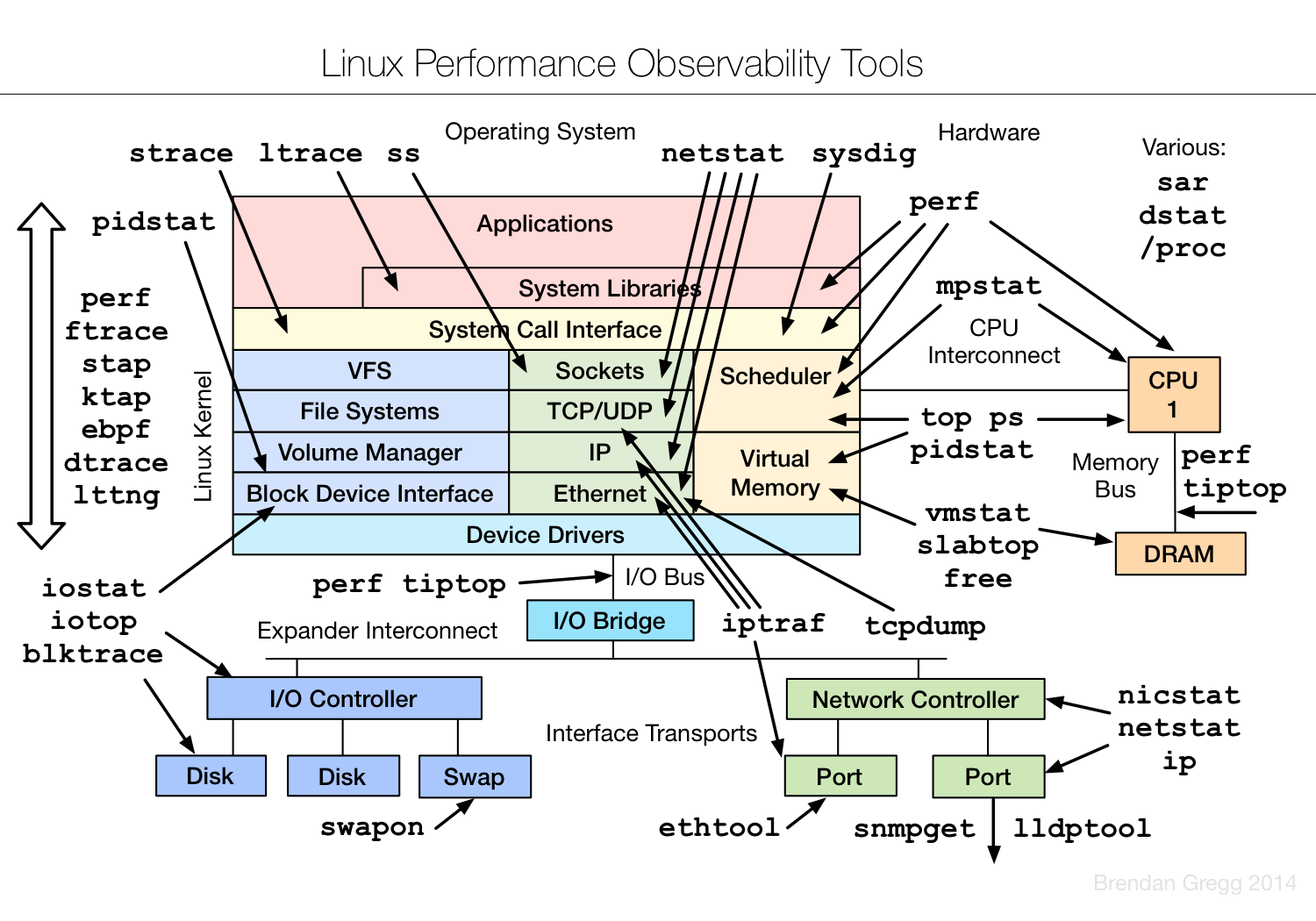
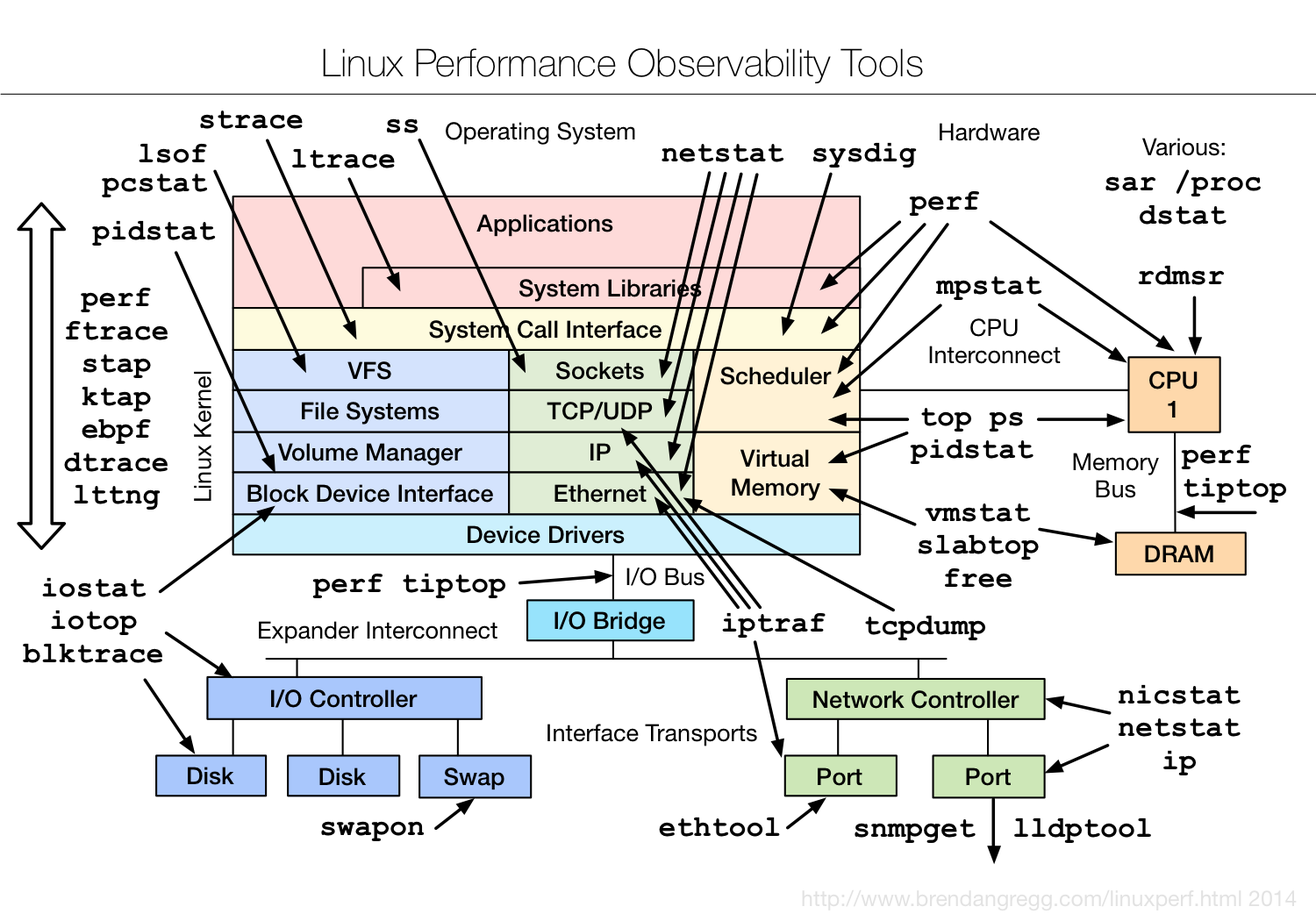
new file:   _posts/brendangregg/2014-11-22-linux-perf-tools-2014.html-100c15b15.html new file:   _posts/chenlinux/2014-11-20-phantomjs-snapshot-63b00217f.html new file:   _posts/chenlinux/2014-11-23-kibana-panel-only-dashboard-3474bf0cc.html new file:   _posts/jobbole/2014-11-20-79757-c5acf18ef.html

diff --git a/_posts/chenlinux/2014-11-23-kibana-panel-only-dashboard-3474bf0cc.html b/_posts/chenlinux/2014-11-23-kibana-panel-only-dashboard-3474bf0cc.html
@@ -1,0 +1,84 @@
+---
+layout: post
+title: '利用动态仪表板实现kibana单图表导出功能'
+time: 2014-11-23 00:00:00 +0800
+site_name: chenlinux.com
+source_url: http://chenlinux.com/2014/11/23/kibana-panel-only-dashboard
+images:
+  3747fb3af94787b878445fd191c7a181: http://photo.weibo.com/1035836154/wbphotos/large/mid/3780159570052868/pid/3dbd9afagw1eml6f9xqltj20lc0fuwfu
+---
+{% raw %}
+
+  
+  <div style="background-color: #FFF;">
+    <p>昨天和朋友聊天，说监控报表的话题，他们认为 kibana 的仪表板形式，还是偏重技术人员做监控的 screen 思路，对 erp 之类的报表不是很友好。要想跟其他系统结合，或者说嵌入到其他系统中，就必须得有单个图表的导出，或者 URL 引用方式。当时我直觉上的反应，就是这个没问题，可以通过 javascript 动态仪表板这个高级功能完成。回来试了一下，比我想的稍微复杂一点点，还是可以很轻松完成的。</p>
+<p>读过<a href="http://kibana.logstash.es/content/dashboard-schema.html">仪表板纲要</a>一文，或者自己看过源代码中 <code>src/app/dashboards/logstash.json</code> 文件的人，应该都知道 kibana 中有些在页面配置界面里看不到的隐藏配置选项。其中很符合我们这次需求的，就有 <code>editable</code>, <code>collapsable</code> 等。所以，首先第一步，我们可以在自己的 <code>panel.js</code>(直接从 logstash.js 复制过来) 中，把这些关掉：</p>
+<div class="highlight"><pre><code class="language-javascript" data-lang="javascript"><span class="nx">dashboard</span><span class="p">.</span><span class="nx">rows</span> <span class="o">=</span> <span class="p">[</span>
+  <span class="p">{</span>
+    <span class="nx">editable</span><span class="o">:</span> <span class="kc">false</span><span class="p">,</span>         <span class="c1">//不显示每行的编辑按钮</span>
+    <span class="nx">collapsable</span><span class="o">:</span> <span class="kc">false</span><span class="p">,</span>      <span class="c1">//不显示每行的折叠按钮</span>
+    <span class="nx">title</span><span class="o">:</span> <span class="s2">"Events"</span><span class="p">,</span>
+    <span class="nx">height</span><span class="o">:</span> <span class="s2">"400px"</span><span class="p">,</span>
+    <span class="nx">panels</span> <span class="o">=</span> <span class="p">[{</span>
+      <span class="nx">editable</span><span class="o">:</span> <span class="kc">false</span><span class="p">,</span>       <span class="c1">//不显示面板的编辑按钮</span>
+      <span class="nx">title</span><span class="o">:</span> <span class="s1">'events over time'</span><span class="p">,</span>
+      <span class="nx">type</span><span class="o">:</span> <span class="s1">'histogram'</span><span class="p">,</span>
+      <span class="nx">time_field</span><span class="o">:</span> <span class="nx">ARGS</span><span class="p">.</span><span class="nx">timefield</span><span class="o">||</span><span class="s2">"@timestamp"</span><span class="p">,</span>
+      <span class="nx">auto_int</span><span class="o">:</span> <span class="kc">true</span><span class="p">,</span>
+      <span class="nx">span</span><span class="o">:</span> <span class="mi">12</span>
+    <span class="p">}]</span>
+  <span class="p">}</span>
+<span class="p">];</span>
+<span class="nx">dashboard</span><span class="p">.</span><span class="nx">editable</span> <span class="o">=</span> <span class="kc">false</span><span class="p">;</span>     <span class="c1">//不显示仪表板的编辑按钮</span>
+<span class="nx">dashboard</span><span class="p">.</span><span class="nx">panel_hints</span> <span class="o">=</span> <span class="kc">false</span><span class="p">;</span>  <span class="c1">//不显示面板的添加按钮</span></code></pre></div>
+<p>然后要解决面板上方的 query 框和 filtering 框。这个同样在纲要介绍里说了，这两个特殊的面板是放在垂幕(pulldows)里的。所以，直接关掉垂幕就好了：</p>
+<div class="highlight"><pre><code class="language-javascript" data-lang="javascript"><span class="nx">dashboard</span><span class="p">.</span><span class="nx">pulldowns</span> <span class="o">=</span> <span class="p">[];</span></code></pre></div>
+<p>然后再往上是顶部栏。顶部栏里有时间选择器，这个跟垂幕一样是可以关掉的：</p>
+<div class="highlight"><pre><code class="language-javascript" data-lang="javascript"><span class="nx">dashboard</span><span class="p">.</span><span class="nx">nav</span> <span class="o">=</span> <span class="p">[];</span></code></pre></div>
+<p>好了，javascript 里可以关掉的，都已经关了。</p>
+<p>但是运行起来，发现顶部栏里虽然是没有时间选择器和配置编辑按钮了，本身这个黑色条带和 logo 图什么的，却依然存在！这时候我想起来有时候 config.js 没写对，<code>/_nodes</code> 获取失败的时候，打开的页面就是背景色外加这个顶条 —— 也就是说，这部分代码是写在 <code>index.html</code> 里的，不受 <code>app/dashboards/panel.js</code> 控制。</p>
+<p>所以这里就得去修改一下 <code>index.html</code> 了。不过为了保持兼容性，我这里没有直接删除顶部栏的代码，而是用了 angularjs 中很常用的 <code>ng-show</code> 指令：</p>
+<div class="highlight"><pre><code class="language-html" data-lang="html"><span class="nt">&lt;div</span> <span class="na">ng-cloak</span> <span class="na">class=</span><span class="s">"navbar navbar-static-top"</span> <span class="na">ng-show=</span><span class="s">"dashboard.current.nav.length"</span><span class="nt">&gt;</span></code></pre></div>
+<p>因为之前关闭时间选择器的时候，已经把这个 nav 数组定义为空了，所以只要判断一下数组长度即可。</p>
+<p>效果如下：</p>
+<p><img src="/images/chenlinux.com/3747fb3af94787b878445fd191c7a181.jpg" alt="single panel"></p>
+<p>因为 <code>dashboard.services</code> 的定义没有做修改，所以这个其实照样支持你用鼠标拉动选择时间范围，支持你在 URL 后面加上 <code>?query=status:404&amp;from=1h</code> 这样的参数，效果都是对的。只不过不会再让你看到这些文字显示在页面上了。</p>
+<p>如果要求再高一点，其实完全可以在 <code>ARGS</code> 里处理更复杂的参数，比如直接 <code>?type=terms&amp;field=host&amp;value_field=requesttime</code> 就生成 <code>dashboard.rows[0].panels[0]</code> 里的对应参数，达到自动控制图表类型和效果的目的。</p>
+    <hr>
+    
+    <hr>
+  <!-- JiaThis Button BEGIN -->
+<div class="jiathis_style">
+<span class="jiathis_txt">分享到：</span>
+<a class="jiathis_button_tsina">新浪微博</a>
+<a class="jiathis_button_weixin">微信</a>
+<a class="jiathis_button_renren">人人网</a>
+<a class="jiathis_button_ydnote">有道云笔记</a>
+<a class="jiathis_button_gmail">Gmail邮箱</a>
+<a class="jiathis_button_twitter">Twitter</a>
+<a class="jiathis_button_googleplus">Google+</a>
+<a class="jiathis_button_hi">百度空间</a>
+<a class="jiathis_button_fb">Facebook</a>
+<a class="jiathis_button_douban">豆瓣</a>
+<a href="http://www.jiathis.com/share?uid=1589850" class="jiathis jiathis_txt jiathis_separator jtico jtico_jiathis" target="_blank">更多</a>
+<a class="jiathis_counter_style"></a>
+</div>
+<script type="text/javascript">
+var jiathis_config={
+	data_track_clickback:true,
+	summary:"",
+	ralateuid:{
+		"tsina":"1035836154"
+	},
+	shortUrl:false,
+	hideMore:false
+}
+</script>
+<script type="text/javascript" src="http://v3.jiathis.com/code/jia.js?uid=1589850" charset="utf-8"></script>
+<!-- JiaThis Button END -->
+<!-- UY BEGIN -->
+
+
+<!-- UY END -->
+  </div>
+{% endraw %}

diff --git a/_posts/jobbole/2014-11-20-79757-c5acf18ef.html b/_posts/jobbole/2014-11-20-79757-c5acf18ef.html
@@ -1,0 +1,113 @@
+---
+layout: post
+title: '计算机算法：数据压缩之前缀编码（5）'
+time: 2014-11-20 00:00:00 +0800
+site_name: jobbole.com
+source_url: http://blog.jobbole.com/79757/
+images:
+  9130b42244a4abbf7fda5aad945efbe9: http://ww1.sinaimg.cn/mw690/63918611gw1emh64rpahdj208b0cpq34.jpg
+  cedae08dc44c077d2df50b7782b0b954: http://ww1.sinaimg.cn/large/63918611gw1emh64sn0cqj20nf0flgr4.jpg
+---
+{% raw %}
+
+        <div style="margin-bottom: 10px;">
+            
+        </div>
+
+		
+<p><span style="font-family: 'Helvetica Neue', Helvetica, Arial, sans-serif; font-size: 28px; font-style: normal; font-weight: bold; line-height: 42px;">概述</span></p>
+<p>前缀编码，有时也被称为前向编码，是另一个通过移除冗余数据来降低数据量的算法。思想非常简单，但算法实现比较困难。要了解原因，首先我们来看一看它的原理。</p>
+<p>请看下面的字典。</p>
+<pre class="brush: actionscript3; gutter: true">use
+used
+useful
+usefully
+usefulness
+useless
+uselessly
+uselessness</pre>
+<p>为了不使用纯文本保存这些单词或者在网络上传输，我们可以用前缀编码进行压缩（编码）。</p>
+<p><img alt="" src="/images/jobbole.com/9130b42244a4abbf7fda5aad945efbe9.jpg"></p>
+<p>很明显，每一个单词都以表中的第一个单词“use”为前缀。所以我们很容易将它们压缩成下面的数组。</p>
+<pre class="brush: actionscript3; gutter: true">$data = array(
+0 =&gt; 'use',
+1 =&gt; '0d',
+2 =&gt; '0ful',
+3 =&gt; '0fully',
+4 =&gt; '0less',
+5 =&gt; '0lessly',
+6 =&gt; '0lessness',
+);</pre>
+<p>显然这并不是最佳的压缩结果，在不仅仅使用第一个词作为前缀的情况下，我们可以更进一步压缩。</p>
+<pre class="brush: actionscript3; gutter: true">$data = array(
+0 =&gt; 'use',
+1 =&gt; '0d',
+2 =&gt; '0ful',
+3 =&gt; '2ly',
+4 =&gt; '0less',
+5 =&gt; '4ly',
+6 =&gt; '4ness',
+);</pre>
+<p>此时的压缩更好，好消息是解码是一个相对简单的过程。但棘手的部分在于压缩本身。问题是选择合适的前缀非常困难。第一个例程的前缀选择很简单，但事实上，大多时候数据很混乱。的确，对于随机产生的数据压缩过程将非常困难，算法过程不仅很慢，而且难以实现。</p>
+<p>好的方面是，如果我们事先知道数据的格式，该算法可以用于多种情况。那么，让我们看看下面三个例子，该算法可能会很方便。</p>
+<h1>应用</h1>
+<p>以下是三个前缀编码的例子。前面我说随机数据的压缩过程会很难，如果你事先知道输入数据的格式，这将会是一个很好的练习。</p>
+<h2>日期和时间前缀</h2>
+<p>我们通常会忽略年份的前两个数字，例如我们通常不会写1995或1996，而是使用更短的——‘95’和‘96’。这样年份就被编码成更短的字符串。</p>
+<pre class="brush: actionscript3; gutter: true">input: (1991, 1992, 1993, 1994, 1995, 1996)
+output: (91, 92, 93, 94, 95, 96)</pre>
+<p>问题在于输入流发生很小的变动，解码就会出错。如果我们加上21世纪的年份，我们将失去数据的唯一性。</p>
+<pre class="brush: actionscript3; gutter: true">input: (1998, 1992, 1999, 2011, 2012)
+output: (98, 92, 99, 11, 12)</pre>
+<p>此时，解码器肯会将最后两个数值解码成(1911, 1912)，因为“19”被认为是前缀。所以，我们事先必须知道前缀与每一个数值绝对平等。如果没有编码格式，必须不同。例如我们可以使用一些特殊标识和前缀一起编码。</p>
+<pre class="brush: actionscript3; gutter: true">input: (1998, 1992, 1932, 1924, 2001, 2012)
+output: (#19, 98, 92, 32, 24, #20, 01, 12)</pre>
+<p>一旦解码器读到#字符，它就知道下面的数为前缀。</p>
+<p>事实上，这种方法可用于日期和时间格式的编码。假设我们有一些日期时间值，而且我们知道所有数据都是在同一天。</p>
+<pre class="brush: actionscript3; gutter: true">2012-01-31 15:33:45
+2012-01-31 16:12:11
+2012-01-31 17:32:35
+2012-01-31 18:54:34</pre>
+<p>显然，我们可以忽略这些字符串的时间部分，仅发送（保存）时间。当然，我们必须确定所有的这些数值都是在同一天。如果不是，我们可以使用上例中的方法。</p>
+<h2>电话号码</h2>
+<p>电话号码是前缀编码的典型应用。不仅仅是国际代码，移动网络运营商的电话号码也使用前缀编码。如果我们要传输电话号码，假设是英国的，我们可以用一些更短的东西替换开头的“+44”。</p>
+<p>如果你要给移动设备编写电话簿，你可以通过前缀编码压缩数据，节省部分空间，这样用户将拥有更多空间，也可以在手机上存储更多电话号码。</p>
+<p>电话号码前缀也适用于数据库标准化。这样你可以将它们存储在单独的数据库表中，不用电话簿中唯一的号码。</p>
+<h2>地理坐标</h2>
+<p>对于我之前帖子中使用的例子，可以在一定范围内去掉通用前缀来发送地理坐标。的确，在必须传送大量坐标到地图应用时，你可以预期这些标记在一定范围内彼此间相当靠近。</p>
+<p style="text-align: center;"><img id="pic" alt="" src="/images/jobbole.com/cedae08dc44c077d2df50b7782b0b954.jpg"></p>
+<p style="text-align: center;"><em></em><em>在一定范围内，可以预期这些标记都有相同的前缀。</em></p>
+<p>那些点的坐标有共同的前缀，就像下面地铁站的例子一样。</p>
+<pre class="brush: actionscript3; gutter: true">LatLon(40.762959,-73.985989)
+LatLon(40.761886,-73.983629)
+LatLon(40.762861,-73.981612)
+LatLon(40.764616,-73.98056)</pre>
+<p>我们可以发现所有的地理坐标点有相同的前缀(40.76x, -73.98x)，所以我们只需要发送一次前缀。</p>
+<pre class="brush: actionscript3; gutter: true">Prefix: (40.76, -73.98)
+Data: 
+LatLon(2959,5989)
+LatLon(1886,3629)
+LatLon(2861,1612)
+LatLon(4616,056)</pre>
+<p>以上是前缀编码的三个例子，该算法在传输均匀数据是非常有用。</p>
+<h1><span style="font-family: 'Helvetica Neue', Helvetica, Arial, sans-serif; font-size: 28px; font-style: normal; font-weight: bold; line-height: 42px;">后缀编码</span></h1>
+<p>后缀编码和前缀编码几乎相同，区别在于编码重复后缀。如下例，后缀编码替换最后重复的后缀，这非常有用。</p>
+<pre class="brush: actionscript3; gutter: true">Johnson
+Clarkson
+Jackson</pre>
+<p>或者公司名称。</p>
+<pre class="brush: actionscript3; gutter: true">Apple Inc.
+Google Inc.
+Yahoo! Inc.</pre>
+<p>这里我们可以使用一些其他更短的东西来替换“Inc”。</p>
+
+
+<!-- div id="ad1">
+</div -->
+
+
+	
+
+
+	
+{% endraw %}

diff --git a/_posts/chenlinux/2014-11-20-phantomjs-snapshot-63b00217f.html b/_posts/chenlinux/2014-11-20-phantomjs-snapshot-63b00217f.html
@@ -1,0 +1,73 @@
+---
+layout: post
+title: '用 phantomjs 截图'
+time: 2014-11-20 00:00:00 +0800
+site_name: chenlinux.com
+source_url: http://chenlinux.com/2014/11/20/phantomjs-snapshot
+---
+{% raw %}
+
+  
+  <div style="background-color: #FFF;">
+    <p>昨儿给 kibana 加上了 table 面板数据导出成 CSV 的功能。朋友们就问了，那其他面板的图表怎么导出保存呢？其实直接截图就好了嘛……</p>
+<p>FireFox 有插件用来截全网页图。不过如果作为定期的工作，这么搞还是比较麻烦的，需要脚本化下来。这时候就可以用上 phantomjs 软件了。phantomjs 是一个基于 webkit 引擎做的 js 脚本库。可以通过 js 程序操作 webkit 浏览器引擎，实现各种浏览器功能。</p>
+<p>因为用了 webkit ，所以软件编译起来挺麻烦的，建议是直接从官方下载二进制包用得了。</p>
+<p>想要给 kibana 页面截图，几行代码就够了：</p>
+<div class="highlight"><pre><code class="language-javascript" data-lang="javascript"><span class="kd">var</span> <span class="nx">page</span> <span class="o">=</span> <span class="nx">require</span><span class="p">(</span><span class="s1">'webpage'</span><span class="p">).</span><span class="nx">create</span><span class="p">();</span>
+<span class="kd">var</span> <span class="nx">address</span> <span class="o">=</span> <span class="s1">'http://kibana.dip.sina.com.cn/#/dashboard/elasticsearch/h5_view'</span><span class="p">;</span>
+<span class="kd">var</span> <span class="nx">output</span> <span class="o">=</span> <span class="s1">'kibana.png'</span><span class="p">;</span>
+<span class="nx">page</span><span class="p">.</span><span class="nx">viewportSize</span> <span class="o">=</span> <span class="p">{</span> <span class="nx">width</span><span class="o">:</span> <span class="mi">1366</span><span class="p">,</span> <span class="nx">height</span><span class="o">:</span> <span class="mi">600</span> <span class="p">};</span>
+<span class="nx">page</span><span class="p">.</span><span class="nx">open</span><span class="p">(</span><span class="nx">address</span><span class="p">,</span> <span class="kd">function</span> <span class="p">(</span><span class="nx">status</span><span class="p">)</span> <span class="p">{</span>
+    <span class="k">if</span> <span class="p">(</span><span class="nx">status</span> <span class="o">!==</span> <span class="s1">'success'</span><span class="p">)</span> <span class="p">{</span>
+        <span class="nx">console</span><span class="p">.</span><span class="nx">log</span><span class="p">(</span><span class="s1">'Unable to load the address!'</span><span class="p">);</span>
+        <span class="nx">phantom</span><span class="p">.</span><span class="nx">exit</span><span class="p">();</span>
+    <span class="p">}</span> <span class="k">else</span> <span class="p">{</span>
+        <span class="nb">window</span><span class="p">.</span><span class="nx">setTimeout</span><span class="p">(</span><span class="kd">function</span> <span class="p">()</span> <span class="p">{</span>
+            <span class="nx">page</span><span class="p">.</span><span class="nx">render</span><span class="p">(</span><span class="nx">output</span><span class="p">);</span>
+            <span class="nx">phantom</span><span class="p">.</span><span class="nx">exit</span><span class="p">();</span>
+        <span class="p">},</span> <span class="mi">20000</span><span class="p">);</span>
+    <span class="p">}</span>
+<span class="p">});</span></code></pre></div>
+<p>这里两个要点：</p>
+<ol>
+  <li>要设置 <code>viewportSize</code> 里的宽度，否则效果会变成单个 panel 依次往下排列。</li>
+  <li>要设置 <code>setTimeout</code>，否则在获取完 index.html 后就直接返回了，只能看到一个大白板。用 phantomjs 截取 angularjs 这类单页 MVC 框架应用时一定要设置这个。</li>
+</ol>
+    <hr>
+    
+    <hr>
+  <!-- JiaThis Button BEGIN -->
+<div class="jiathis_style">
+<span class="jiathis_txt">分享到：</span>
+<a class="jiathis_button_tsina">新浪微博</a>
+<a class="jiathis_button_weixin">微信</a>
+<a class="jiathis_button_renren">人人网</a>
+<a class="jiathis_button_ydnote">有道云笔记</a>
+<a class="jiathis_button_gmail">Gmail邮箱</a>
+<a class="jiathis_button_twitter">Twitter</a>
+<a class="jiathis_button_googleplus">Google+</a>
+<a class="jiathis_button_hi">百度空间</a>
+<a class="jiathis_button_fb">Facebook</a>
+<a class="jiathis_button_douban">豆瓣</a>
+<a href="http://www.jiathis.com/share?uid=1589850" class="jiathis jiathis_txt jiathis_separator jtico jtico_jiathis" target="_blank">更多</a>
+<a class="jiathis_counter_style"></a>
+</div>
+<script type="text/javascript">
+var jiathis_config={
+	data_track_clickback:true,
+	summary:"",
+	ralateuid:{
+		"tsina":"1035836154"
+	},
+	shortUrl:false,
+	hideMore:false
+}
+</script>
+<script type="text/javascript" src="http://v3.jiathis.com/code/jia.js?uid=1589850" charset="utf-8"></script>
+<!-- JiaThis Button END -->
+<!-- UY BEGIN -->
+
+
+<!-- UY END -->
+  </div>
+{% endraw %}

diff --git a/_drafts/devtang/2014-11-24-ios-weekly-32-485619474.html b/_drafts/devtang/2014-11-24-ios-weekly-32-485619474.html
@@ -1,0 +1,55 @@
+---
+layout: post
+title: 'iOS移动开发周报-第32期'
+time: 2014-11-24 00:00:00 +0800
+site_name: devtang.com
+source_url: http://blog.devtang.com/blog/2014/11/24/ios-weekly-32/
+---
+{% raw %}
+<h3>版权说明</h3>
+
+<p>本文为InfoQ中文站特供稿件，首发地址为：<a href="http://www.infoq.com/cn/news/2014/11/1yuan-apple-app-store-pricing">文章链接</a>。如需转载，请与InfoQ中文站联系。</p>
+
+<h3>前言</h3>
+
+<p>欢迎国内的iOS同行或技术作者向我提交周报线索，线索可以是新闻、教程、开发工具或开源项目，将相关文章的简介和链接在微博上发布并 <a href="http://weibo.com/tangqiaoboy">@唐巧_boy</a> 即可。</p>
+
+<p>【摘要】：本期iOS移动开发周报带来如下内容：“1元”正式成苹果中国区应用商店新定价、Apple Watch人机界面指南、Apple WatchKit 初探等。</p>
+
+<h2>新闻</h2>
+
+<ol>
+<li><p><a href="http://tech.sina.com.cn/it/apple/2014-11-18/06419801088.shtml">《苹果公司发布iOS 8.1.1升级补丁》</a>：11月18日凌晨消息，苹果公司已对上个月针对iPhone、iPad和iPod Touch发布的iOS 8.1操作系统正式推出了iOS 8.1.1升级补丁。iOS 8.1.1将可改善基于iOS 8系统运行的、使用A5芯片的较老设备的表现，也就是指iPad 2和iPhone 4s。除了发布iOS 8.1.1以外，苹果公司还发布了OS X 10.10.1升级补丁以修复WiFi网络表现及其他问题。</p></li>
+<li><p><a href="http://tech.sina.com.cn/mobile/n/apple/2014-11-21/16439814574.shtml">《“1元”正式成苹果中国区应用商店新定价》</a>：11月19日，苹果中国区App Store应用商店出现1元应用，当时曾有消息称这是短期促销行为，不过目前苹果公司已经正式宣布，人民币1元及3元将是中国区应用商店的新定价，作为一个永久价格选项。</p></li>
+<li><p><a href="https://github.com/CocoaPods/CocoaPods/pull/2835">《CocoaPods将要支持Swift》</a>：从 CocoaPods 的一个pull request中，我们了解到著名的 iOS 依赖管理工具 CocoaPods 将要支持 Swift 语言。</p></li>
+<li><p><a href="http://it.sohu.com/20141121/n406233892.shtml">《AppleWatch需求被低估 苹果股价创历史新高》</a>：11月21日，据外国媒体报道，在经过新一轮的多名华尔街分析师上调公司目标股价之后，再加上摩根士丹利认为一些投资者低估了苹果智能手表Apple Watch的市场需求预期，苹果周四股价呈现出上涨局面。苹果股价在当周曾达到历史新高的117.28美元。</p></li>
+</ol>
+
+
+<h2>教程</h2>
+
+<ol>
+<li><p><a href="http://vdisk.weibo.com/s/yWUvUXSZiJFiv">《Apple Watch人机界面指南（中文版）》</a>：苹果于11月19号放出了Apple Watch的官方设计指南。这是由<a href="http://weibo.com/uiteam?from=feed&amp;loc=nickname">微博无线设计团队</a>翻译的中文版指南。</p></li>
+<li><p><a href="https://github.com/nixzhu/dev-blog/blob/master/2014-11-20-build-custom-control-in-swift.md">《使用 Swift 构建自定义（且“可设计”的）控件》</a>：大约两年前，我写了一篇关于在 iOS 上构件自定义控件的教程。那篇教程获得了社区的高度赞赏，所以我决定将其用 Swift 更新并加入 Designable/Inspectable 属性以支持直接在 Interface Builder 里调整控件的外观。</p></li>
+<li><p><a href="http://onevcat.com/2014/11/watch-kit/">《Apple WatchKit 初探》</a>： 11月19日，Apple 发布了第一版的 Watch Kit 的 API，对于开发者来说，这款新设备的一些更详细的信息也算是逐渐浮出水面。可以说第一版的 WatchKit 开放的功能总体还是令人满意的。Apple 在承诺逐渐开放的方向上继续前进。本文介绍了Watch app 架构和主要的类等相关知识。</p></li>
+<li><p><a href="http://nonomori.farbox.com/post/webkit-zhi-shu-ju-gong-xiang">《WatchKit 之 数据共享》</a>：本文介绍了如何使 Watch App 与 iOS App 之间进行数据共享。</p></li>
+<li><p><a href="http://nonomori.farbox.com/post/watchkit-zhi-dao-hang">《WatchKit 之 导航》</a>：在 Watch App 中，当涉及到多个界面跳转时，我们共有两种导航方式可使用：<code>Hierarchical</code> 与 <code>Page-based</code>。本文将对这两种导航方式以及 Modal 展现方式做简单的介绍。</p></li>
+</ol>
+
+
+<h2>工具</h2>
+
+<ol>
+<li>
+<a href="https://github.com/lucholaf/Auto-Importer-for-Xcode">Auto-Importer</a>：Auto-Importer是一个自动导入类对应的头文件的Xcode插件。</li>
+</ol>
+
+
+<h2>开源项目</h2>
+
+<ol>
+<li><p><a href="https://github.com/Carthage/Carthage">Carthage</a>：Carthage是一个去中心化的依赖管理工具。</p></li>
+<li><p><a href="https://github.com/coteditor/CotEditor">CotEditor</a>：CotEditor是一个OS X下的开源的纯文本编辑器。</p></li>
+</ol>
+
+{% endraw %}

diff --git a/_posts/brendangregg/2014-11-22-linux-perf-tools-2014.html-100c15b15.html b/_posts/brendangregg/2014-11-22-linux-perf-tools-2014.html-100c15b15.html
@@ -1,0 +1,46 @@
+---
+layout: post
+title: 'Linux Performance Tools 2014'
+time: 2014-11-22 00:00:00 +0800
+site_name: brendangregg.com
+source_url: http://www.brendangregg.com/blog/2014-11-22/linux-perf-tools-2014.html
+images:
+  386f03345157c7fac26406e42798f874: /Perf/linux_observability_tools.png
+  40960fcd9a650b461bf8cd7271ebe119: /blog/images/2014/linuxconeu2014.jpg
+---
+{% raw %}
+
+<p>Last month I gave an updated Linux Performance Tools talk for <a href="http://events.linuxfoundation.org/events/archive/2014/linuxcon-europe">LinuxCon Europe 2014</a> in Düsseldorf. This included static performance tuning, as well as other updates. My performance observability tools diagram now includes rdmsr, after my post on <a href="/blog/2014-09-15/the-msrs-of-ec2.html">The MSRs of EC2</a>, where I discovered that MSRs could be useful:</p>
+
+<p></p>
+<center><a href="/Perf/linux_observability_tools.png"><img src="/images/brendangregg.com/386f03345157c7fac26406e42798f874.jpg" width="500" height="350"></a></center>
+
+<p>I keep this diagram updated on <a href="/linuxperf.html">linuxperf</a>. The slides from my talk are on (<a href="http://www.slideshare.net/brendangregg/linux-performance-tools-2014">slideshare</a>):</p>
+
+<p></p>
+<center><iframe src="http://www.slideshare.net/slideshow/embed_code/40240208" width="427" height="356" frameborder="0" marginwidth="0" marginheight="0" scrolling="no" style="border:1px solid #CCC; border-width:1px; margin-bottom:5px; max-width: 100%;" allowfullscreen> </iframe></center>
+
+<p>As I didn't see an official video camera in the room, I had my friends at <a href="http://www.efficios.com/">EfficOS</a> film it, who also filmed the <a href="http://lwn.net/Articles/622033/rss">Tracing Summit</a>. This is on (<a href="https://www.youtube.com/watch?v=SN7Z0eCn0VY">youtube</a>):</p>
+
+<p></p>
+<center><iframe width="560" height="315" src="http://www.youtube.com/embed/SN7Z0eCn0VY" frameborder="0" allowfullscreen></iframe></center>
+
+<p>The main objective of my talk was to give you exposure to what exists in the field of Linux performance tools – to turn unknown unknowns into known unknowns. </p>
+
+<div style="float:right;padding-left:10px;padding-bottom:5px">
+<img src="/images/brendangregg.com/40960fcd9a650b461bf8cd7271ebe119.jpg" width="250" height="161"><br><center><font size="-1"><i>Photo by <a href="https://www.flickr.com/photos/linuxfoundation/15348354449/">Linux Foundation</a></i></font></center>
+</div>
+
+<p>In my earlier <a href="/blog/2014-08-23/linux-perf-tools-linuxcon-na-2014.html">LinuxCon North America</a> talk, I had three main collections of performance tools, with a diagram for each: for observability, benchmarking, and tuning tools. For this LinuxCon Europe talk, I introduced a fourth main category: static performance tuning tools.</p>
+
+<p>I learned about static performance tuning from a paper by Richard Elling in 2000: the idea is to check the static configured state of the system, <em>without load</em>, to look for a class of issues not found by other tools. This includes things like checking how full the filesystems are, the routing table, and network interface auto-negotiation. I feel the addition of this group of tools makes this talk complete: I'm summarizing all the main tools in one short talk.</p>
+
+<p>At LinuxCon Europe I also saw a great talk by Ben Maurer on <a href="http://events.linuxfoundation.org/sites/events/files/slides/lpc.pdf">Scaling Userspace @ Facebook</a> (slides), where he discussed some serious systems performance analysis on Linux that they have been doing. It's impressive, interesting, and deep work. Sadly I didn't see a video camera to capture it.</p>
+
+<p>Steven Rostedt from Red Hat gave a stunning talk on <a href="http://www.linuxplumbersconf.org/2014/ocw//system/presentations/1773/original/ftrace-kernel-hooks-2014.pdf">Ftrace Kernel Hooks: More than just tracing</a> (slides). This might be the most technical talk I've ever seen! I found it particularly interesting as I've been doing a lot with ftrace, an undiscovered gem of Linux, including using it for my <a href="https://github.com/brendangregg/perf-tools">perf-tools</a> collection. I heard this talk was videoed, although I haven't seen the video yet.</p>
+
+<p>I also saw Rikki Endsley, also now at Red Hat, give a talk on <a href="http://lccoelce14.sched.org/event/e883537a4136e09a421beb97440ee59b?iframe=no&amp;w=&amp;sidebar=yes&amp;bg=no#.VHD-NmTF9o8">Confessions of a Reluctant Tweeter: Social Media for Open Source Communities</a>. Rikki has contributed much to our industry, and it's interesting to hear her expertise on open source marketing in general. I had spoken about marketing earlier in the week at the Tracing Summit, where Linux technologies like ftrace could really benefit from more exposure.</p>
+
+<p>Thanks to those who attended my talk, and the Linux Foundation for organizing another great event!</p>
+
+{% endraw %}
